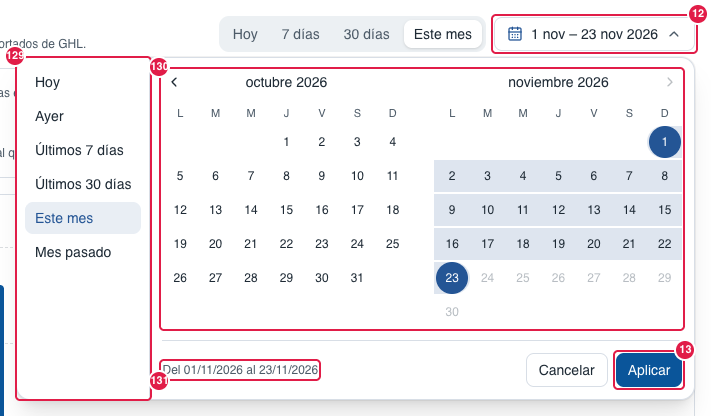
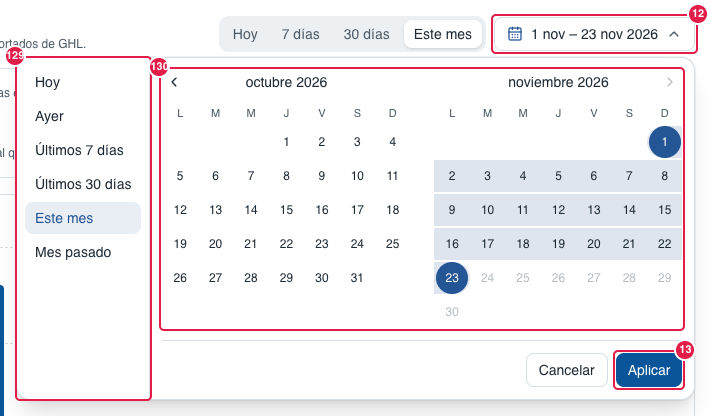
style(filtro): calendario de rango sin el renglón «Del … al …»
Pedido del dueño (23-nov-2026): el rango ya se entiende con los dos meses y el botón; abajo quedan solo Cancelar y
Aplicar. Se quitan formatRangeSentence/formatDayDmy (ya sin uso). Mapa: fuera la fila 131 (12, 13, 3.5 › 23 y glosario
al día); capturas 01j-periodo y 07-anuncios-periodo rehechas.

Changed region(s): [[0.1857, 0.8438, 0.4641, 0.9375]]

diff --git a/components/ui/date-range-picker.tsx b/components/ui/date-range-picker.tsx
@@ -3,7 +3,7 @@
 // Calendario de RANGO del CRM (23-nov-2026, pedido del dueño: «Desde» y «Hasta» en un solo control, como el de Meta
 // Ads). Un botón con el periodo escrito («12 nov – 30 nov 2026»); al picarle se abre un recuadro con los atajos a la
 // izquierda (Hoy, Ayer, Últimos 7 días, Últimos 30 días, Este mes, Mes pasado), dos meses juntos (primer clic = inicio,
-// segundo = fin; los días de en medio en azul suave) y abajo «Del … al …» con Cancelar y Aplicar. Los días después de
+// segundo = fin; los días de en medio en azul suave) y abajo Cancelar y Aplicar. Los días después de
 // hoy no se pueden elegir. Misma estética que el calendario de un día (date-time-picker.tsx). En el celular, el
 // recuadro trae los atajos y dos campos con el calendario del teléfono. Sin lógica de datos: las reglas viven en
 // lib/dates/range-picker.ts.
@@ -13,7 +13,6 @@ import { createPortal } from "react-dom";
 import { addMonths, MONTH_NAMES, monthMatrix, WEEKDAY_INITIALS } from "@/lib/dates/picker";
 import {
   formatRangeLabel,
-  formatRangeSentence,
   matchingPreset,
   nextRange,
   presetRange,
@@ -224,10 +223,8 @@ export function DateRangePicker({
                   />
                 </div>
               )}
-              <div className="flex flex-wrap items-center justify-between gap-3 border-t pt-3">
-                <span className="text-xs text-muted-foreground tabular-nums">
-                  {validDraft ? formatRangeSentence(draft.desde, draft.hasta) : "Elige el inicio y el fin"}
-                </span>
+              {/* 23-nov-2026 (dueño): sin «Del … al …» abajo; el rango ya se ve en los dos meses y en el botón. */}
+              <div className="flex items-center justify-end gap-3 border-t pt-3">
                 <div className="flex gap-2">
                   <button type="button" onClick={close} className="rounded-md border px-3 py-1.5 hover:bg-muted">
                     Cancelar

diff --git a/lib/dates/range-picker.test.ts b/lib/dates/range-picker.test.ts
@@ -1,7 +1,6 @@
 import { describe, expect, it } from "vitest";
 import {
   formatRangeLabel,
-  formatRangeSentence,
   matchingPreset,
   nextRange,
   presetRange,
@@ -11,16 +10,12 @@ import {
 
 const HOY = "2026-11-21";
 
-describe("formatRangeLabel / formatRangeSentence", () => {
+describe("formatRangeLabel", () => {
   it("un día, mismo año y años distintos", () => {
     expect(formatRangeLabel(HOY, HOY)).toBe("21 nov 2026");
     expect(formatRangeLabel("2026-11-12", "2026-11-30")).toBe("12 nov – 30 nov 2026");
     expect(formatRangeLabel("2026-12-28", "2027-01-03")).toBe("28 dic 2026 – 3 ene 2027");
     expect(formatRangeLabel("", "")).toBe("Elegir periodo");
-  });
-  it("el renglón de abajo", () => {
-    expect(formatRangeSentence("2026-11-12", "2026-11-30")).toBe("Del 12/11/2026 al 30/11/2026");
-    expect(formatRangeSentence(HOY, HOY)).toBe("El 21/11/2026");
   });
 });
 

diff --git a/lib/dates/range-picker.ts b/lib/dates/range-picker.ts
@@ -31,17 +31,6 @@ export function formatRangeLabel(desde: string, hasta: string): string {
   return `${corto(desde, !mismoAno)} – ${corto(hasta, true)}`;
 }
 
-// "12/11/2026"
-export function formatDayDmy(day: string): string {
-  const { y, m, d } = partes(day);
-  return `${String(d).padStart(2, "0")}/${String(m).padStart(2, "0")}/${y}`;
-}
-
-// El renglón de abajo del calendario: "Del 12/11/2026 al 30/11/2026" o "El 21/11/2026".
-export function formatRangeSentence(desde: string, hasta: string): string {
-  return desde === hasta ? `El ${formatDayDmy(desde)}` : `Del ${formatDayDmy(desde)} al ${formatDayDmy(hasta)}`;
-}
-
 export type RangePreset = "hoy" | "ayer" | "7" | "30" | "mes" | "mesPasado";
 
 export const RANGE_PRESETS: { key: RangePreset; label: string }[] = [

diff --git a/docs/mapa-crm/1-glosario.md b/docs/mapa-crm/1-glosario.md
@@ -55,7 +55,7 @@
 | **Número de prueba / PRUEBA** | Número de WhatsApp para probar. Sus chats llevan la etiqueta **PRUEBA** y **no cuentan en el Dashboard**. Desde el 28-sep-2026 está **archivado** (igual que el Sandbox): ya no aparece en Agente IA › Canales. Ese mismo día se **borraron sus chats de prueba** (eran celulares del negocio): los contactos se quedaron, sin la marca Prueba, y hoy ningún chat lleva la etiqueta PRUEBA. |
 | **Importado del celular** | Mensaje viejo copiado del teléfono al conectar un número. El agente no lo contesta y no cuenta como nuevo. En Instagram es **Importado de Instagram**: los últimos 500 chats que había al conectar la cuenta (2-oct-2026); el chat de un cliente reciente sí se puede contestar (hasta 24 h, o 7 días si contesta un vendedor). |
 | **Calendario** | El selector de fecha y hora del CRM (7-oct-2026; antes el del navegador, que cambiaba según Chrome, Safari o Windows): mes ▾ y flechas ↑ ↓ (o deslizar arriba/abajo sobre los días con el Magic Mouse o el trackpad, como en el visor de archivos), los días (el elegido en círculo azul, hoy con aro) y las ruedas de hora y minutos **sin fin, como las del iPhone** (una banda azul fija en medio; lo que queda en ella al soltar es lo elegido) más a.m./p.m.; sin «Borrar» ni «Hoy». Está en Cambiar hora del seguimiento, 🕒 Programar, Pausar agente hasta una fecha, las fechas del Historial, el periodo del Dashboard, la fecha de una recarga, el horario del Agente IA y las horas de Agente IA › Seguimientos. En el celular sale el selector del propio teléfono (las ruedas del iPhone). Ver Caja para escribir › 65–68. |
-| **Calendario de rango (periodo)** | El botón del periodo del Dashboard, sus historiales y Anuncios (23-nov-2026, como el de Meta Ads): un solo botón con el periodo escrito que abre los atajos (Hoy, Ayer, Últimos 7 días, Últimos 30 días, Este mes, Mes pasado), dos meses juntos (primer clic = inicio, segundo = fin) y «Del … al …» con Cancelar y Aplicar. Reemplazó a «Mes», «Desde» y «Hasta». Ver Dashboard › 12. |
+| **Calendario de rango (periodo)** | El botón del periodo del Dashboard, sus historiales y Anuncios (23-nov-2026, como el de Meta Ads): un solo botón con el periodo escrito que abre los atajos (Hoy, Ayer, Últimos 7 días, Últimos 30 días, Este mes, Mes pasado), dos meses juntos (primer clic = inicio, segundo = fin) y Cancelar y Aplicar. Reemplazó a «Mes», «Desde» y «Hasta». Ver Dashboard › 12. |
 | **Sticker** | Calcomanía de WhatsApp (del cliente, o de un vendedor desde el celular). En el chat se ve **como en WhatsApp**: sin burbuja, de **tamaño fijo** (más chico que una foto) y **solo la hora** abajo, en una píldora con el color de su lado (**blanca** si es del cliente, **azul** si es nuestra), para no confundirlo con una foto (aunque lo hayan hecho de una foto). Si responde a un mensaje va dentro de su burbuja normal, con la cita. En la lista de la Bandeja sale «📎 Sticker». El Agente IA no ve el dibujo: solo sabe que llegó un sticker. Desde el 30-sep-2026. |
 | **Mensaje no disponible** | A veces WhatsApp **no pasa al CRM el primer mensaje** de un cliente nuevo (Meta, código 131060; pasa sobre todo con iPhone y al llegar por anuncio: ~1 de cada 70 clientes nuevos). El CRM espera **hasta 1 minuto** con «Recibiendo mensaje…» (el más tardío que se ha medido llegó a los 5 s) y hace una **doble verificación**: si el mensaje llegó por otro lado lo muestra normal (el aviso desaparece), si Zernio lo tiene lo recupera, y si de verdad no llegó deja la tarjeta **«El cliente escribió, pero WhatsApp no pasó el mensaje al CRM. Míralo en el celular.»** y el Agente IA (en su horario) le escribe: «¡Hola! Gracias por escribirnos 😊 Su mensaje no nos llegó completo. ¿Nos lo puede escribir de nuevo? Si tiene activados los mensajes temporales, desactívelos en este chat para que sí nos lleguen.». Si el mensaje llega más tarde, reemplaza a la tarjeta solo y el Agente IA contesta **lo que dice**. Lo que el cliente escribe después sí llega y se contesta normal: el texto fijo solo sale si no hay nada que leer. Desde el 29-sep-2026. |
 | **Programado** | Mensaje que sale solo a la hora elegida (hora de Mazatlán). |

diff --git a/docs/mapa-crm/3.1-dashboard.md b/docs/mapa-crm/3.1-dashboard.md
@@ -11,7 +11,7 @@ Desde el 20-nov-2026 (opción A del dueño) arriba va el **Costo del CRM** (115)
 ![WhatsApp (Meta) desglosado](01f-dashboard-whatsapp.png)
 ![Railway desglosado](01g-dashboard-railway.png)
 ![Zernio desglosado](01h-dashboard-zernio.png)
-![Calendario del periodo abierto (12, 129–131, 13)](01j-periodo.png)
+![Calendario del periodo abierto (12, 129, 130, 13)](01j-periodo.png)
 ![Aviso «¿Borrar la recarga …?» (59)](01-dashboard-recarga-borrar.png)
 
 | # | Nombre oficial | Qué hace | Quién lo ve |
@@ -35,11 +35,10 @@ Desde el 20-nov-2026 (opción A del dueño) arriba va el **Costo del CRM** (115)
 | 59 | **Aviso «¿Borrar la recarga de US$… en … del …?»** | Sale arriba, centrado, con el estilo del CRM (27-oct-2026; antes era la ventana del navegador): «El saldo de … se vuelve a calcular sin ella. Bórrala solo si se capturó por error.» **Borrar** (naranja) la quita; **Cancelar**, Esc o un clic afuera lo cierran. | Todos |
 | 10 | **Conversaciones nuevas** | Contactos nuevos que escribieron. No cuenta los importados de GHL, los del número de prueba ni los dados de alta a mano (Embudo › Nuevo contacto, 20). | Todos |
 | 11 | **Hoy · 7 días · 30 días · Este mes** | Atajos para elegir el periodo. | Todos |
-| 12 | **Periodo** (un solo botón) | El periodo escrito, con un calendario y una flechita (p. ej. «12 nov – 30 nov 2026»). Al picarle abre el **calendario de rango** (23-nov-2026, pedido del dueño, como el de Meta Ads; antes eran tres cuadros: «Mes», «Desde» y «Hasta»): los atajos (129), dos meses juntos (130) y abajo el periodo con Cancelar y Aplicar (131, 13). Si eliges un mes completo (o este mes hasta hoy) se toma como ese mes, igual que antes con «Mes». Los días después de hoy no se pueden elegir. En el celular trae los atajos y dos campos con el calendario del teléfono. | Todos |
+| 12 | **Periodo** (un solo botón) | El periodo escrito, con un calendario y una flechita (p. ej. «12 nov – 30 nov 2026»). Al picarle abre el **calendario de rango** (23-nov-2026, pedido del dueño, como el de Meta Ads; antes eran tres cuadros: «Mes», «Desde» y «Hasta»): los atajos (129), dos meses juntos (130) y abajo Cancelar y Aplicar (13). El rango se ve en los dos meses y en el botón (el renglón «Del … al …», antes 131, se quitó el 23-nov-2026 por pedido del dueño). Si eliges un mes completo (o este mes hasta hoy) se toma como ese mes, igual que antes con «Mes». Los días después de hoy no se pueden elegir. En el celular trae los atajos y dos campos con el calendario del teléfono. | Todos |
 | 129 | **Atajos del calendario** | Hoy, Ayer, Últimos 7 días, Últimos 30 días, Este mes y Mes pasado. Pican el periodo en el calendario; el elegido queda marcado en azul. | Todos |
 | 130 | **Los dos meses** | El mes del fin a la derecha y el anterior a la izquierda, con flechas para moverse. **Primer clic = inicio, segundo clic = fin** (si el segundo es antes, se voltean); el inicio y el fin van en círculo azul y los días de en medio en azul suave. | Todos |
-| 131 | **Del … al … · Cancelar** | Abajo del calendario, el periodo que se va a aplicar («Del 12/11/2026 al 30/11/2026»). **Cancelar**, Esc o un clic afuera cierran sin cambiar nada. | Todos |
-| 13 | **Aplicar** (dentro del calendario) | Aplica el periodo elegido y la página se vuelve a calcular. | Todos |
+| 13 | **Aplicar** (dentro del calendario) | Aplica el periodo elegido y la página se vuelve a calcular. Junto, **Cancelar**: igual que Esc o un clic afuera, cierra sin cambiar nada. | Todos |
 | 14 | **Nuevas hoy / Nuevas esta semana / Nuevas este mes** | Cifras con la comparación contra el periodo anterior al mismo momento (▲ más, ▼ menos). | Todos |
 | 15 | **Conversaciones nuevas por día** | Gráfica de barras por día. | Todos |
 | 16 | **Ver como tabla** | Muestra los números de la gráfica en tabla. | Todos |

diff --git a/docs/mapa-crm/3.5-anuncios.md b/docs/mapa-crm/3.5-anuncios.md
@@ -13,7 +13,7 @@ cada anuncio para ver su detalle.
 |---|---|---|---|
 | 1 | **Descripción** | Explica que se cuenta por la fecha del clic en el anuncio. | Todos |
 | 2 | **Periodo** | Hoy · 7 días · 30 días · Este mes, y el periodo en un solo botón que abre el calendario de rango (23). Igual que en Dashboard › Conversaciones nuevas (11, 12). | Todos |
-| 23 | **Calendario del periodo** | Se abre al picar el periodo (2): atajos (Hoy, Ayer, Últimos 7 días, Últimos 30 días, Este mes, Mes pasado), dos meses juntos (primer clic = inicio, segundo = fin) y abajo «Del … al …» con Cancelar y Aplicar. Un mes completo se toma como ese mes. Desde el 23-nov-2026 (pedido del dueño, como el de Meta Ads); antes eran «Mes», «Desde» y «Hasta» por separado. | Todos |
+| 23 | **Calendario del periodo** | Se abre al picar el periodo (2): atajos (Hoy, Ayer, Últimos 7 días, Últimos 30 días, Este mes, Mes pasado), dos meses juntos (primer clic = inicio, segundo = fin) y abajo Cancelar y Aplicar. Un mes completo se toma como ese mes. Desde el 23-nov-2026 (pedido del dueño, como el de Meta Ads); antes eran «Mes», «Desde» y «Hasta» por separado. | Todos |
 | 3 | **Buscar anuncio, campaña o conjunto…** | Filtra la tabla. | Todos |
 | 4 | **Activas · Todas** | "Activas" esconde solo los anuncios pausados. | Todos |
 | 5 | **Contador** (3 de 4) | Cuántos se ven de cuántos hay. | Todos |
